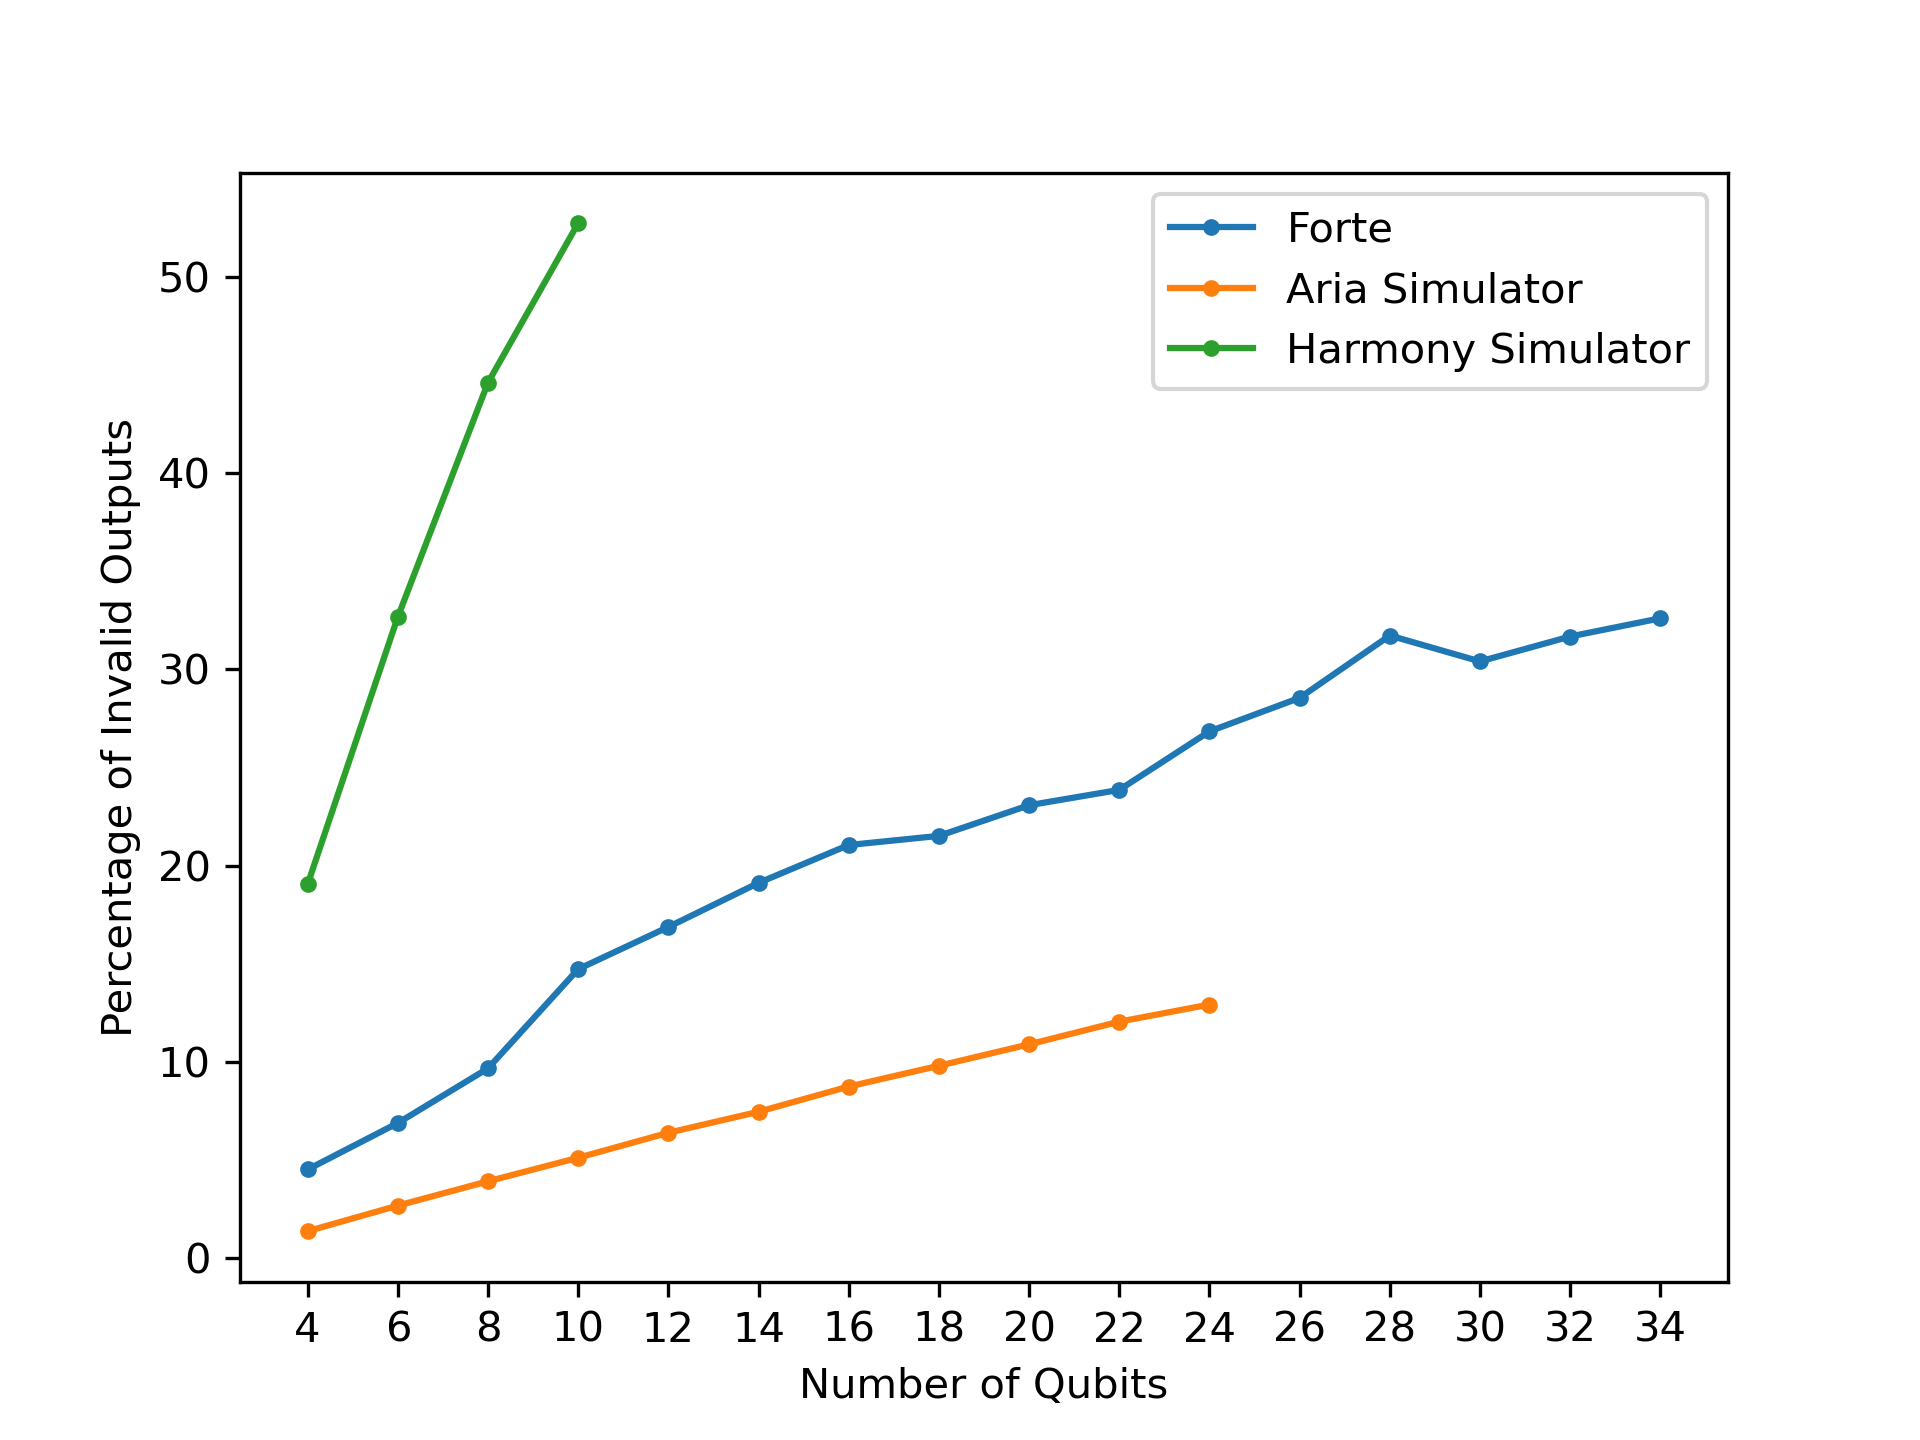
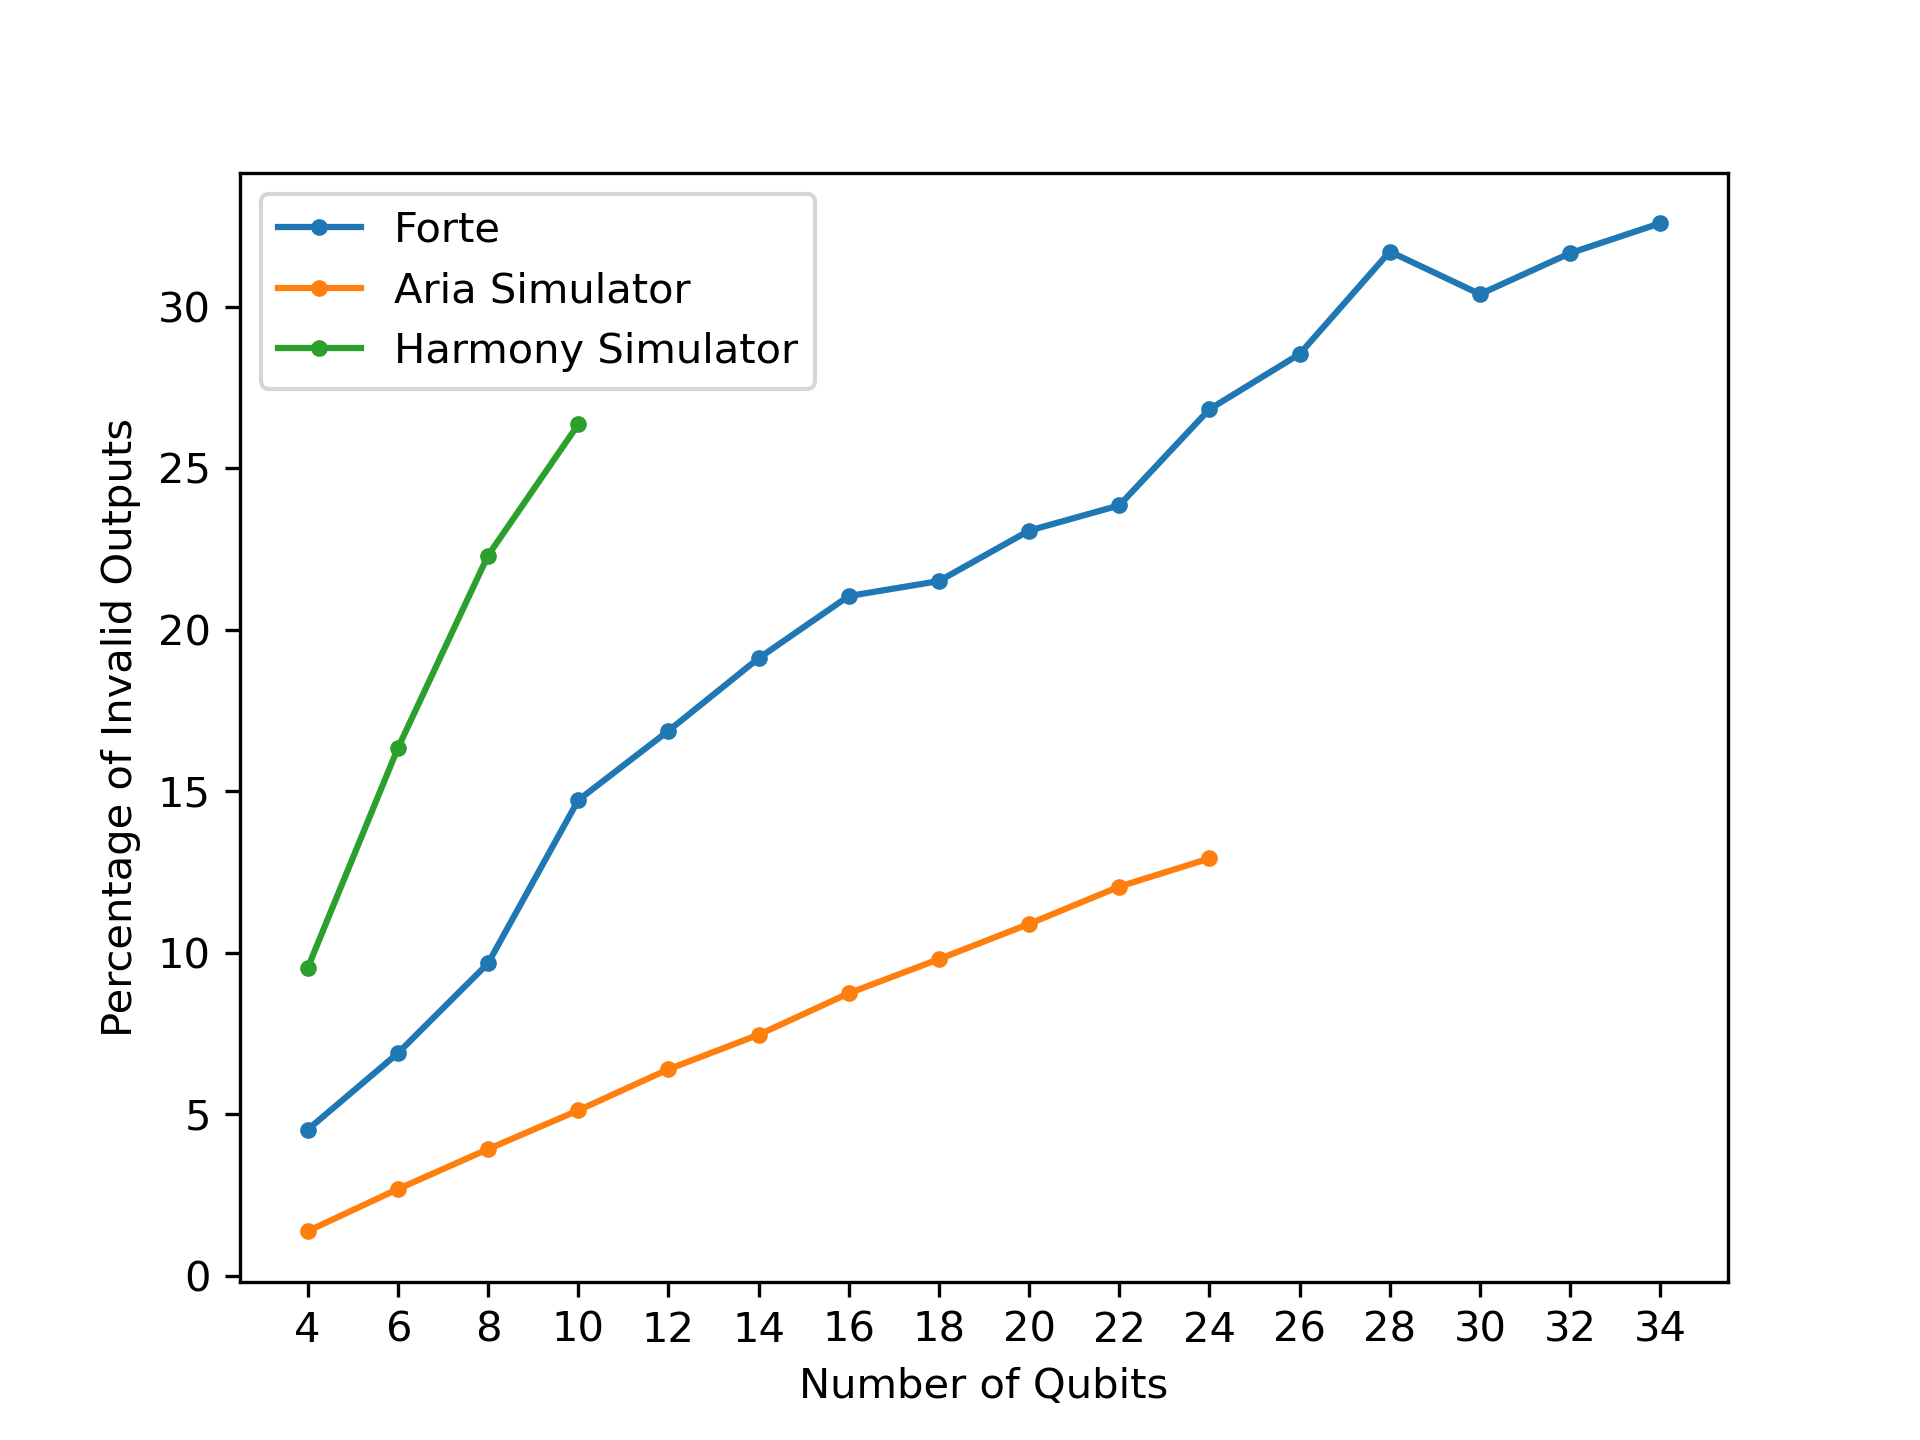
Fixed bug with Harmony simulator plotting.

diff --git a/HardwareComparison/ionqProcessing.py b/HardwareComparison/ionqProcessing.py
@@ -86,7 +86,7 @@ for filename in os.listdir(harmonySimDir):
 
 array /= shots
 simArray /= (simShots * repetitions)
-harmonySimArray /= (shots * repetitions)
+harmonySimArray /= (simShots * repetitions)
 
 plt.plot(qubitCounts, array*100, '.-', label='Forte')
 plt.plot(qubitCounts[:11], simArray*100, '.-', label='Aria Simulator')
